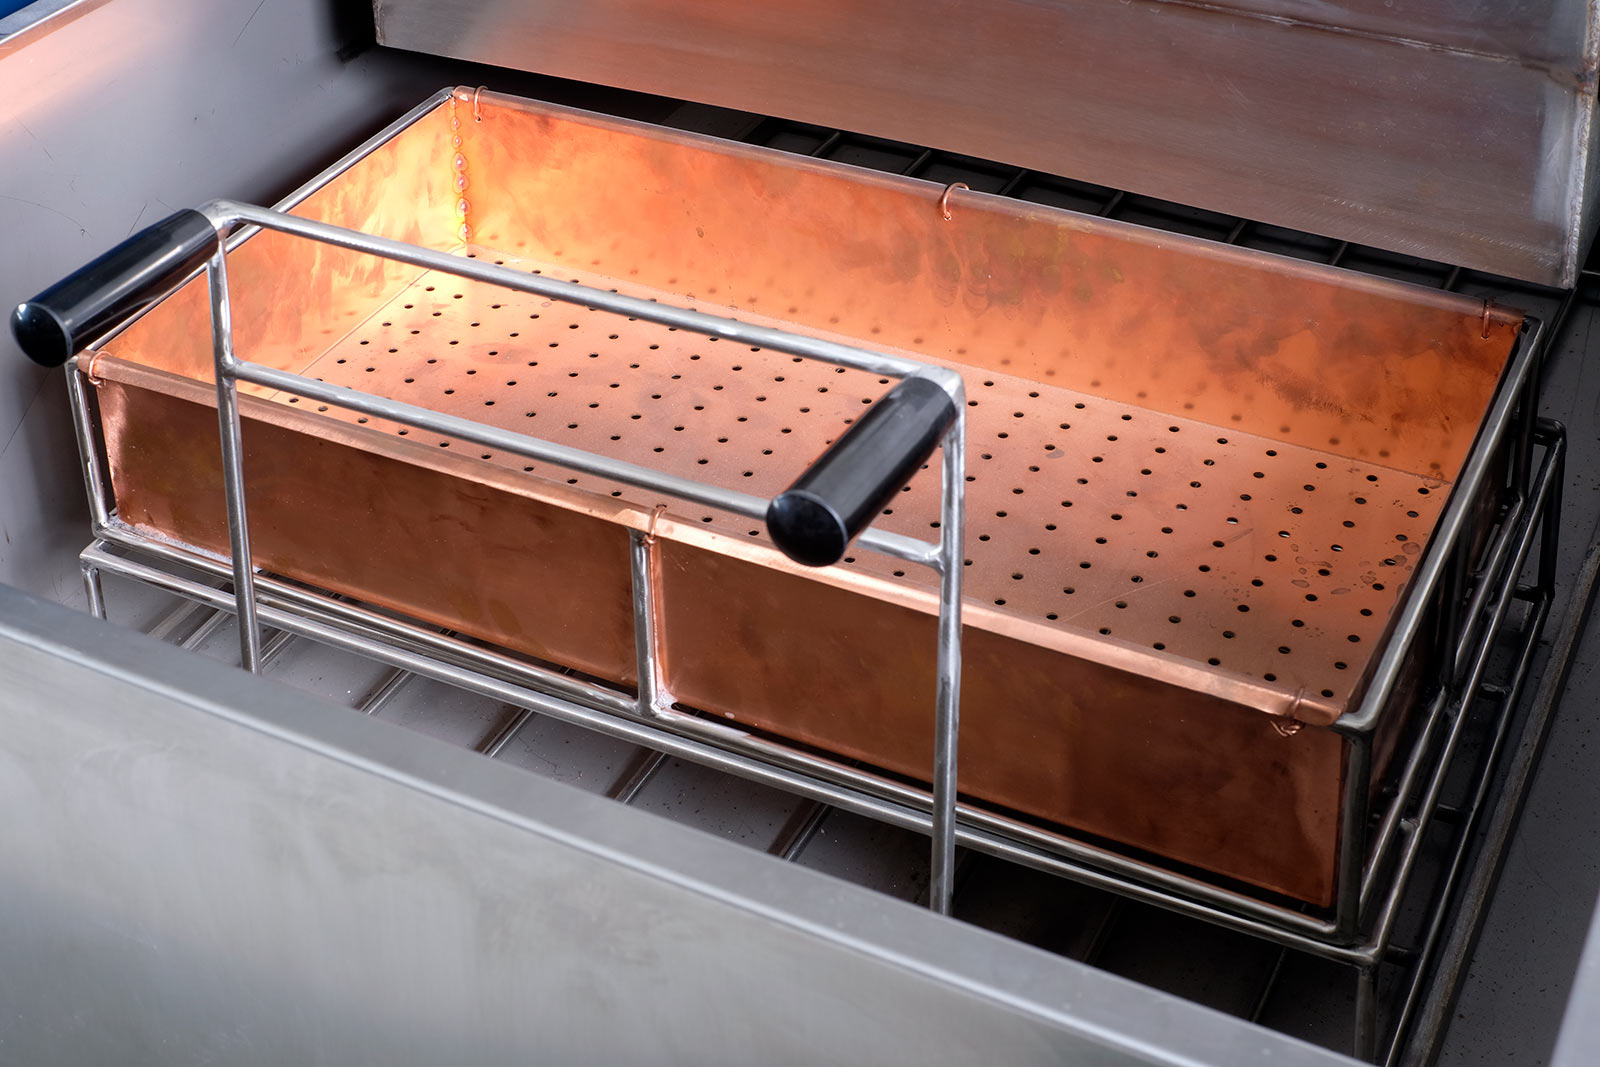
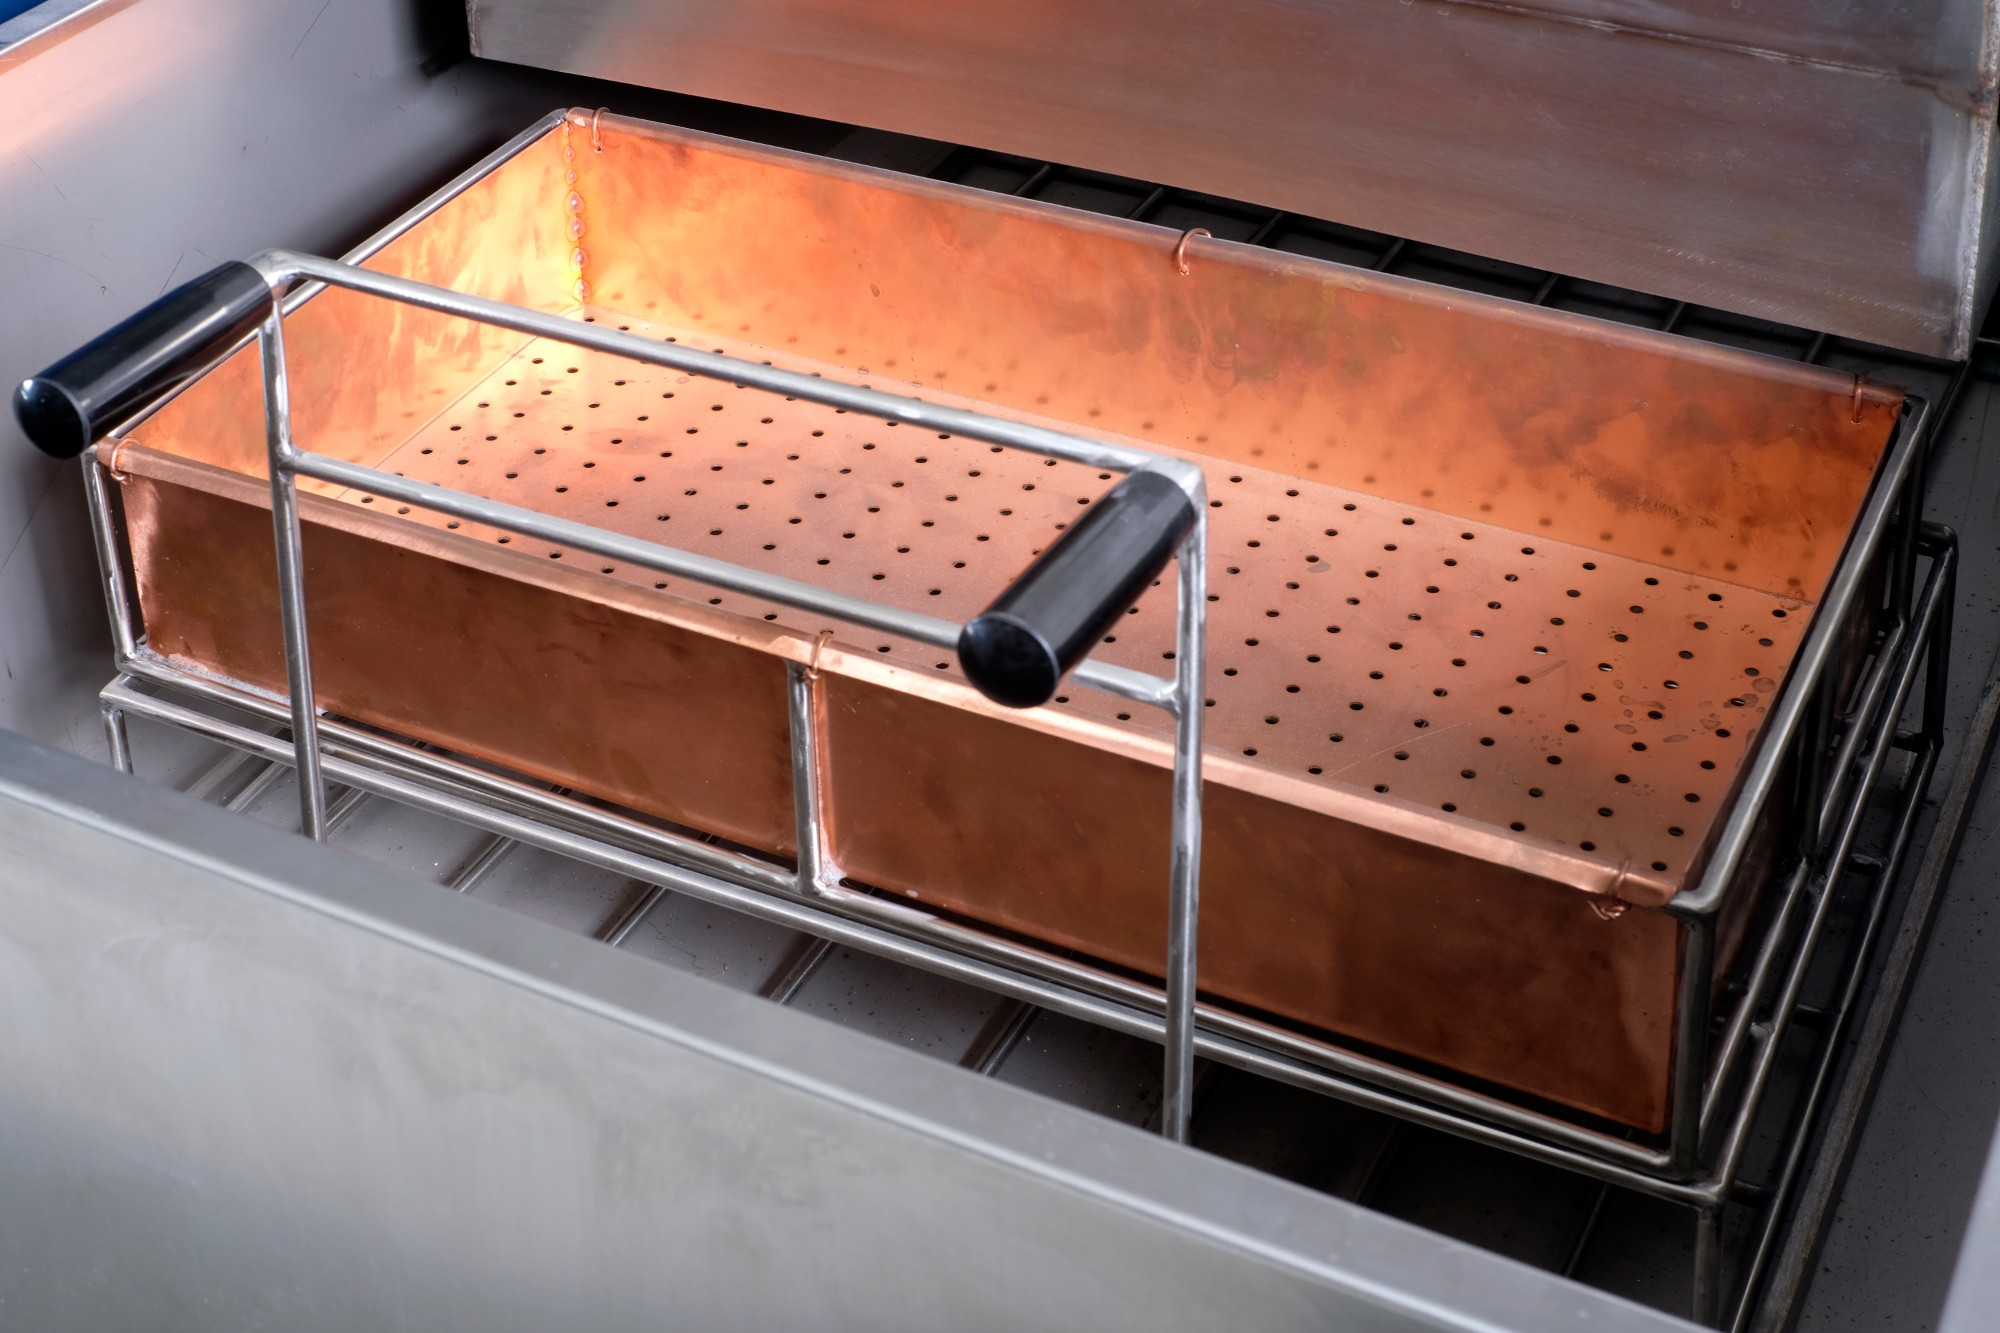
feat(images): IT.AF detail photos at 2000px
Claude-Session: https://claude.ai/code/session_01EA98WarGrLwRTTLbCQopnh

Changed region(s): [[0.25, 0.0928, 0.2812, 0.1237], [0.2188, 0.1237, 0.25, 0.1546], [0.1875, 0.1546, 0.2188, 0.1856]]

diff --git a/docs/CHANGES.md b/docs/CHANGES.md
@@ -395,3 +395,7 @@ Fornita dal titolare: foto di studio di IT.KB (Sistema automatico per la produzi
 - File: `assets/img/src/AUTOMATIC-BULLION-BARS-PRODUCTION-SYSTEM-Mod-IT-hero.jpg`, ottimizzato in tre WebP (480/960/1600 px; 12, 30 e 66 KB). È anche l'`og:image` della home. La foto non sostituisce ancora quella nella scheda IT.KB (non richiesto).
 - Lighthouse home dopo la modifica: mobile 99, desktop 99–100, CLS 0.
 - Test aggiornati (5 slide, IT.KB prima e immagine principale, og:image).
+
+## Foto di dettaglio IT.AF a 2000 px
+
+Il titolare ha inviato due foto di dettaglio di IT.AF (vaschetta di rame nel forno; sportello e vassoio estraibile) a 2000×1333. Sono le stesse due immagini che il sito già usava a 1600×1067: le ho sostituite (stessi nomi file) e rigenerate le versioni WebP; cambia solo la risoluzione, non le immagini. Valgono per la galleria di IT.AF e per il banner Azienda (vaschetta di rame). Non adatte alla hero: primi piani senza la macchina intera e senza una zona libera per il titolo.
